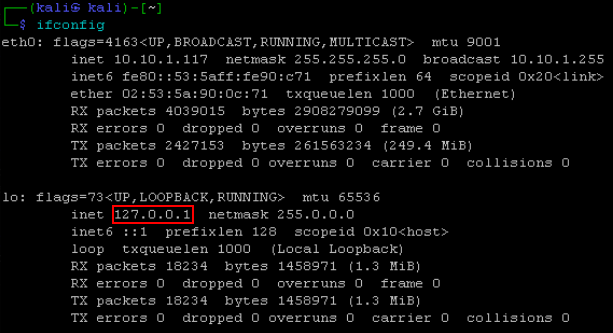
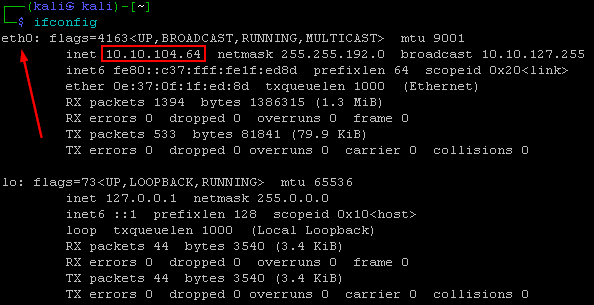
Update to LinuxCLI wording and Screenshots

Changed region(s): [[0.0, 0.0, 1.0, 0.5311], [0.0, 0.5607, 0.9394, 0.9738], [0.0303, 0.177, 0.0606, 0.3541]]

diff --git a/IntroClassFiles/Tools/IntroClass/LinuxCLI/LinuxCLI.md b/IntroClassFiles/Tools/IntroClass/LinuxCLI/LinuxCLI.md
@@ -59,9 +59,13 @@ Now we will need to know the IP address of our **linux** system:
 
 ![](attachments/ifconfigKaliInstance.png)
 
+**REMEMBER - YOUR IP WILL BE DIFFERENT**
+
 Now, let's connect:
 
-<pre>nc 127.0.0.1 2222</pre>
+<pre>nc 10.10.104.64 2222</pre>
+
+**REMEMBER - YOUR IP WILL BE DIFFERENT**
 
 
 It can be confusing to tell whether or not you are connected to the backdoor. 
